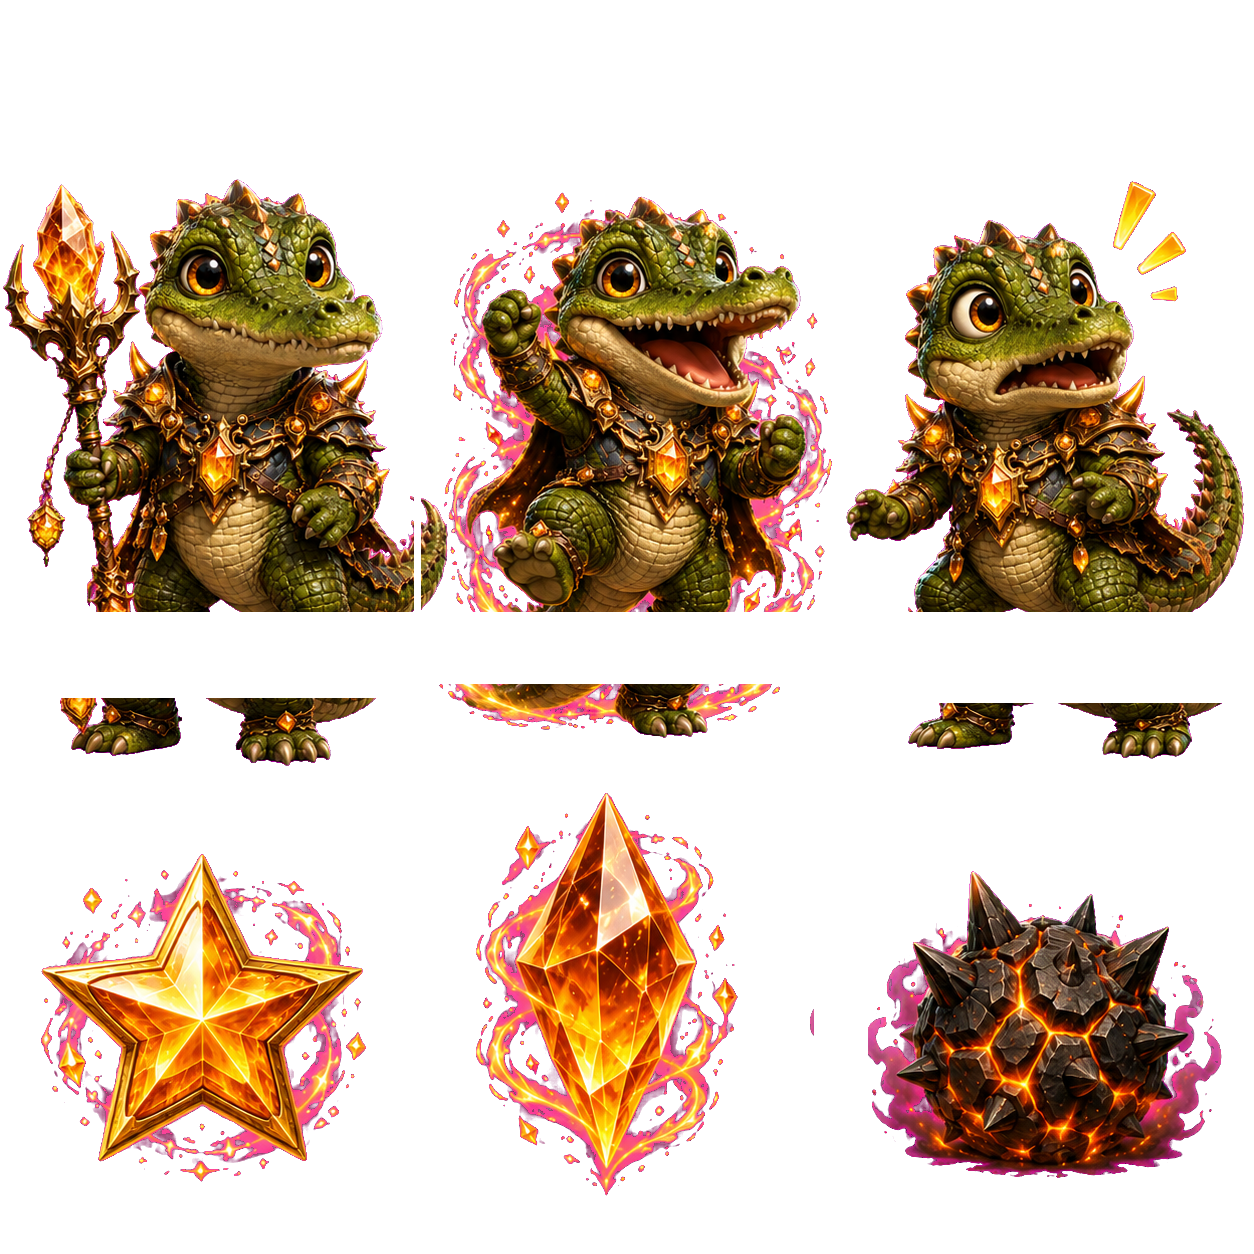
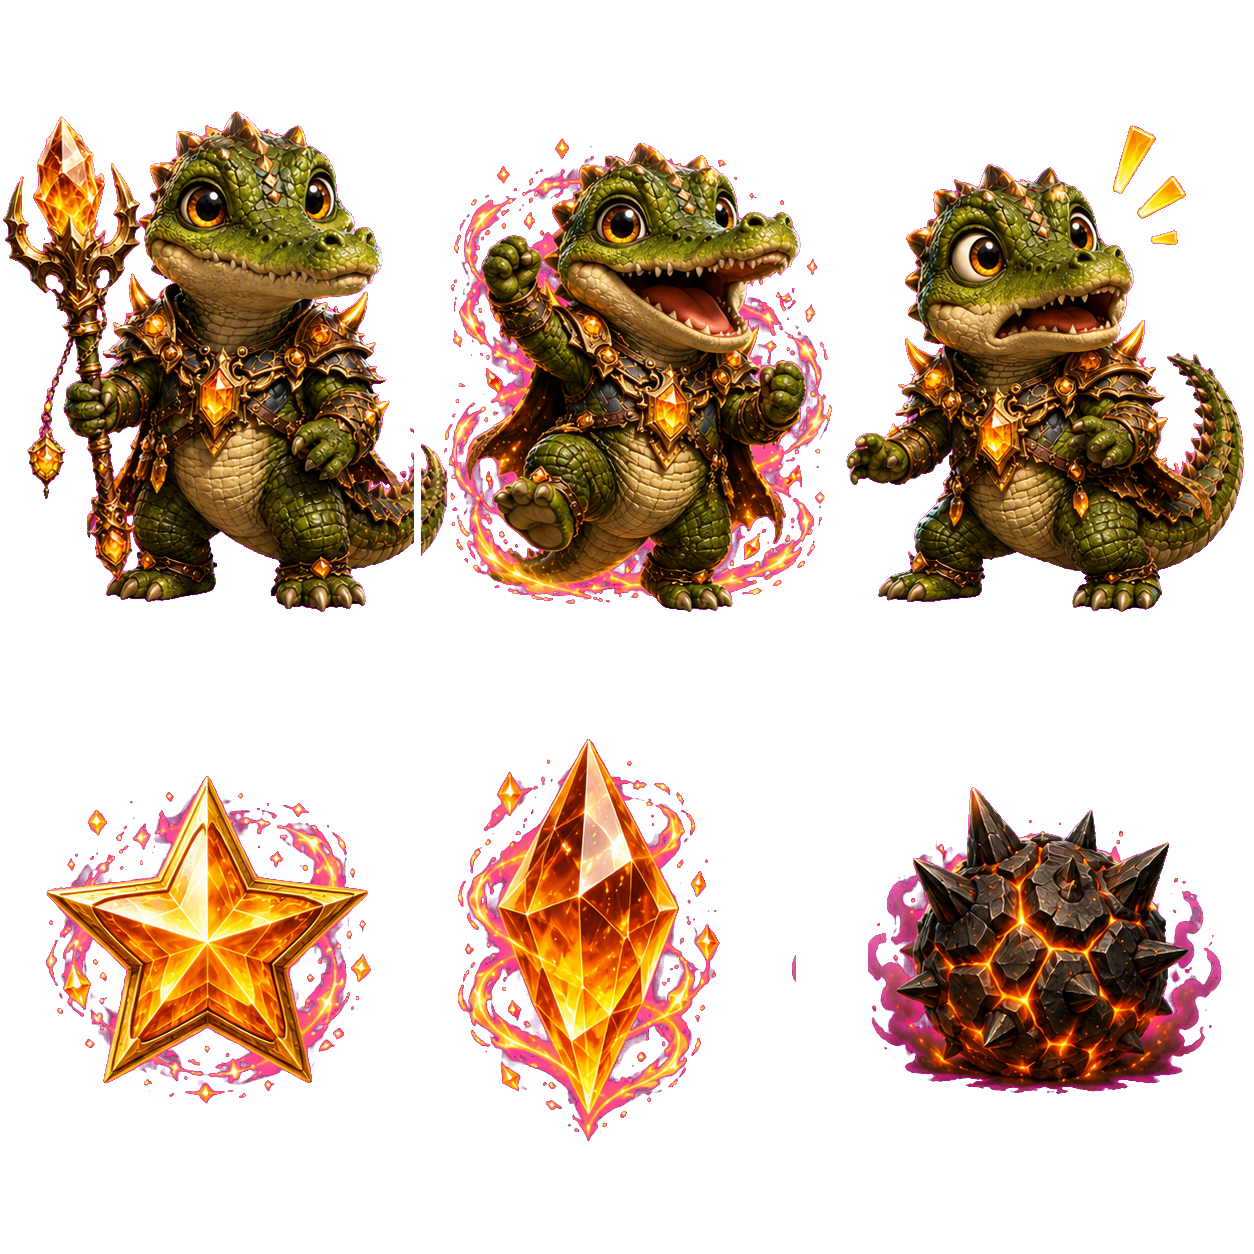
fix: resolve cut-off feet by dynamically finding horizontal split; fix delta time game loop freeze; proactively fix Runner and Catcher

diff --git a/app/components/CatcherGame.tsx b/app/components/CatcherGame.tsx
@@ -431,8 +431,16 @@ export default function CatcherGame({ childId, rewardId, characterId, characterN
     const groundY = canvas.height - 75; // ground y level is 325
 
     const loop = (time: number) => {
-      const dt = Math.min(100, time - g.lastTime) / 16.666; // Normalize to 60fps delta
+      if (!time) {
+        time = performance.now();
+      }
+      let delta = time - g.lastTime;
+      if (delta < 0 || isNaN(delta) || delta > 1000) {
+        delta = 16.666;
+      }
+      const dt = Math.min(100, delta) / 16.666; // Normalize to 60fps delta
       g.lastTime = time;
+
 
       // 1. Draw themed sky background
       const skyGrad = ctx.createLinearGradient(0, 0, 0, groundY);

diff --git a/app/components/TapReactionGame.tsx b/app/components/TapReactionGame.tsx
@@ -496,8 +496,16 @@ export default function TapReactionGame({ childId, rewardId, characterId, charac
     });
 
     const loop = (time: number) => {
-      const dt = Math.min(100, time - g.lastTime) / 16.666; // Normalize to 60fps delta
+      if (!time) {
+        time = performance.now();
+      }
+      let delta = time - g.lastTime;
+      if (delta < 0 || isNaN(delta) || delta > 1000) {
+        delta = 16.666;
+      }
+      const dt = Math.min(100, delta) / 16.666; // Normalize to 60fps delta
       g.lastTime = time;
+
 
       // 1. Draw themed sky background
       const skyGrad = ctx.createLinearGradient(0, 0, 0, canvas.height);

diff --git a/app/components/RunnerGame.tsx b/app/components/RunnerGame.tsx
@@ -527,9 +527,17 @@ export default function RunnerGame({ childId, rewardId, characterId, characterNa
     });
 
     const loop = (time: number) => {
-      const dt = Math.min(100, time - g.lastTime) / 16.666; // Normalize to 60fps delta
+      if (!time) {
+        time = performance.now();
+      }
+      let delta = time - g.lastTime;
+      if (delta < 0 || isNaN(delta) || delta > 1000) {
+        delta = 16.666;
+      }
+      const dt = Math.min(100, delta) / 16.666; // Normalize to 60fps delta
       g.lastTime = time;
       g.distance += dt;
+
 
       // Update positions
       g.bgOffset = (g.bgOffset + 3 * dt) % canvas.width;

diff --git a/scripts/reprocess-tap-reaction-vision.py b/scripts/reprocess-tap-reaction-vision.py
@@ -1,6 +1,32 @@
 import os
 from PIL import Image
 
+def find_split_y(img, key_color, tolerance=45):
+    w, h = img.size
+    kr, kg, kb = key_color[0], key_color[1], key_color[2]
+    
+    # Scan rows from Y=500 to Y=850 to find completely empty rows (chromakey background only)
+    empty_rows = []
+    for y in range(500, 850):
+        is_empty = True
+        for x in range(w):
+            pixel = img.getpixel((x, y))
+            r, g, b = pixel[0], pixel[1], pixel[2]
+            dist = ((r - kr)**2 + (g - kg)**2 + (b - kb)**2)**0.5
+            if dist > tolerance:
+                is_empty = False
+                break
+        if is_empty:
+            empty_rows.append(y)
+            
+    if empty_rows:
+        split_y = (empty_rows[0] + empty_rows[-1]) // 2
+        print(f"  Detected Y-split at: {split_y} (empty range: {empty_rows[0]} - {empty_rows[-1]})")
+        return split_y
+    else:
+        print("  Warning: No completely empty row found. Falling back to Y=627")
+        return 627
+
 def process_vision(input_path, output_path):
     print(f"Vision processing {os.path.basename(input_path)}...")
     img = Image.open(input_path).convert("RGBA")
@@ -9,13 +35,16 @@ def process_vision(input_path, output_path):
     # 1. Sample key color at (0, 0)
     key_color = img.getpixel((0, 0))
     kr, kg, kb = key_color[0], key_color[1], key_color[2]
-    print(f"  Sampleed key color: R={kr}, G={kg}, B={kb}")
+    print(f"  Sampled key color: R={kr}, G={kg}, B={kb}")
     
     # Determine if green or magenta key
     is_green_key = (kg > 150 and kr < 100 and kb < 100)
     is_magenta_key = (kr > 150 and kb > 150 and kg < 100)
     
     tolerance = 45
+    
+    # Find the split Y coordinate dynamically
+    split_y = find_split_y(img, key_color, tolerance)
     
     # Apply chroma-key background removal and spill suppression to the entire image first
     datas = img.getdata()
@@ -46,7 +75,7 @@ def process_vision(input_path, output_path):
             
     img.putdata(clean_data)
     
-    # 2. Slice into 3x2 grid of 418x627 cells
+    # 2. Slice into 3x2 grid of cells, aligning back into a standard 418x627 layout
     cell_w = 418
     cell_h = 627
     
@@ -54,16 +83,20 @@ def process_vision(input_path, output_path):
     
     for r in range(2):
         for c in range(3):
-            # Crop the grid cell from cleaned image
+            # Crop the grid cell from cleaned image based on dynamic Y-split
             x0 = c * cell_w
-            y0 = r * cell_h
             x1 = x0 + cell_w
-            y1 = y0 + cell_h
             
+            if r == 0:
+                y0 = 0
+                y1 = split_y
+            else:
+                y0 = split_y
+                y1 = 1254
+                
             cell_crop = img.crop((x0, y0, x1, y1))
             
             # Find bounding box of non-transparent pixels in this cell
-            # PIL's getbbox() returns (left, upper, right, lower)
             bbox = cell_crop.getbbox()
             if not bbox:
                 print(f"  Warning: Cell ({r}, {c}) is completely empty.")
@@ -75,14 +108,14 @@ def process_vision(input_path, output_path):
             
             sprite_img = cell_crop.crop(bbox)
             
-            # Create a clean cell
+            # Create a clean standard standard standard cell of size 418x627
             clean_cell = Image.new("RGBA", (cell_w, cell_h), (0, 0, 0, 0))
             
             # Center horizontally
             dest_x = (cell_w - sprite_w) // 2
             
             if r == 0:
-                # Character: align bottom with 15px margin
+                # Character: align bottom with 15px margin to keep feet fully visible on the pedestal
                 dest_y = cell_h - sprite_h - 15
             else:
                 # Item: center vertically
